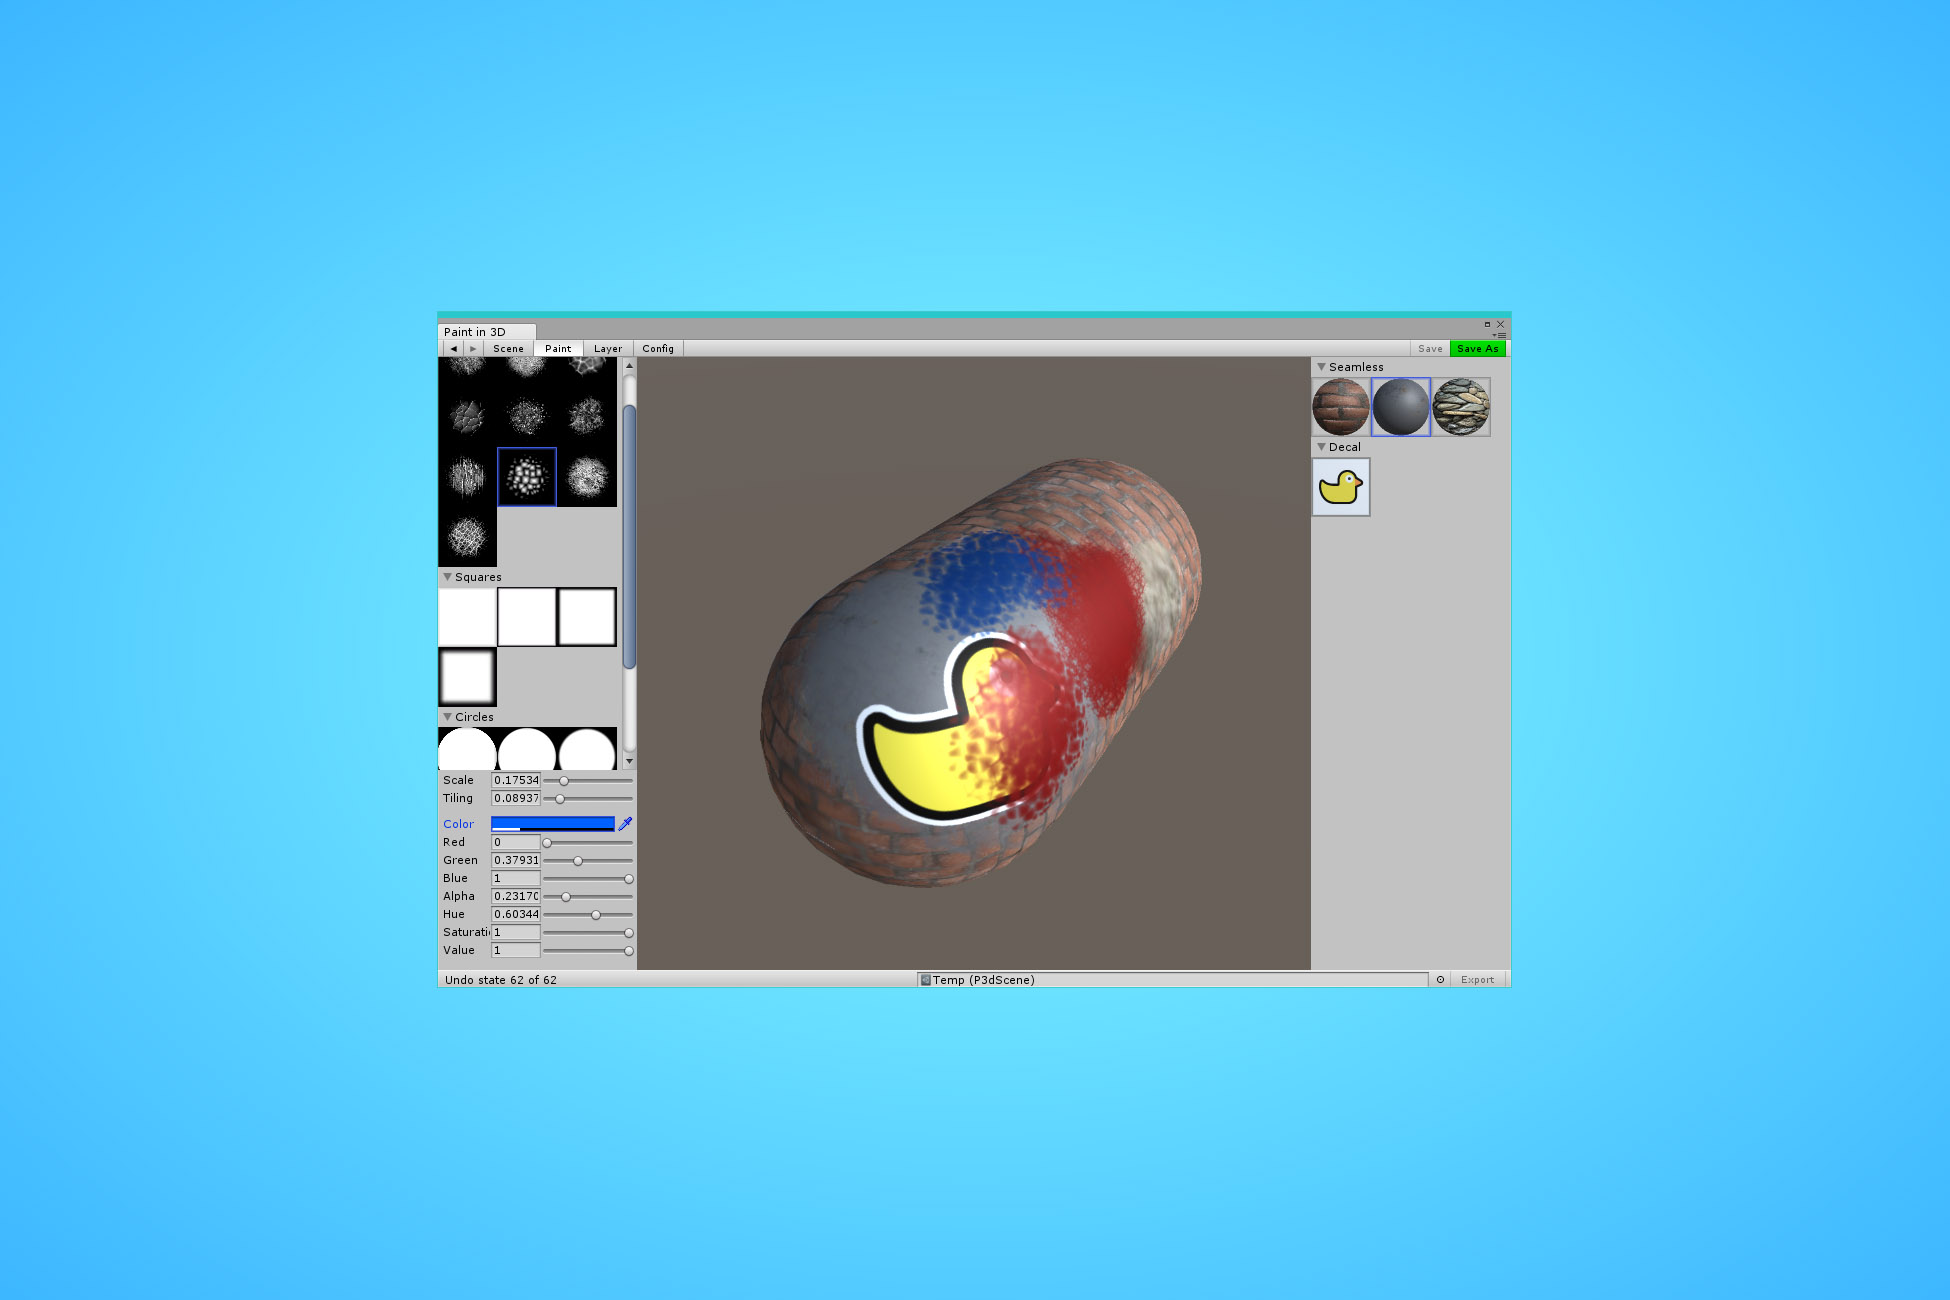
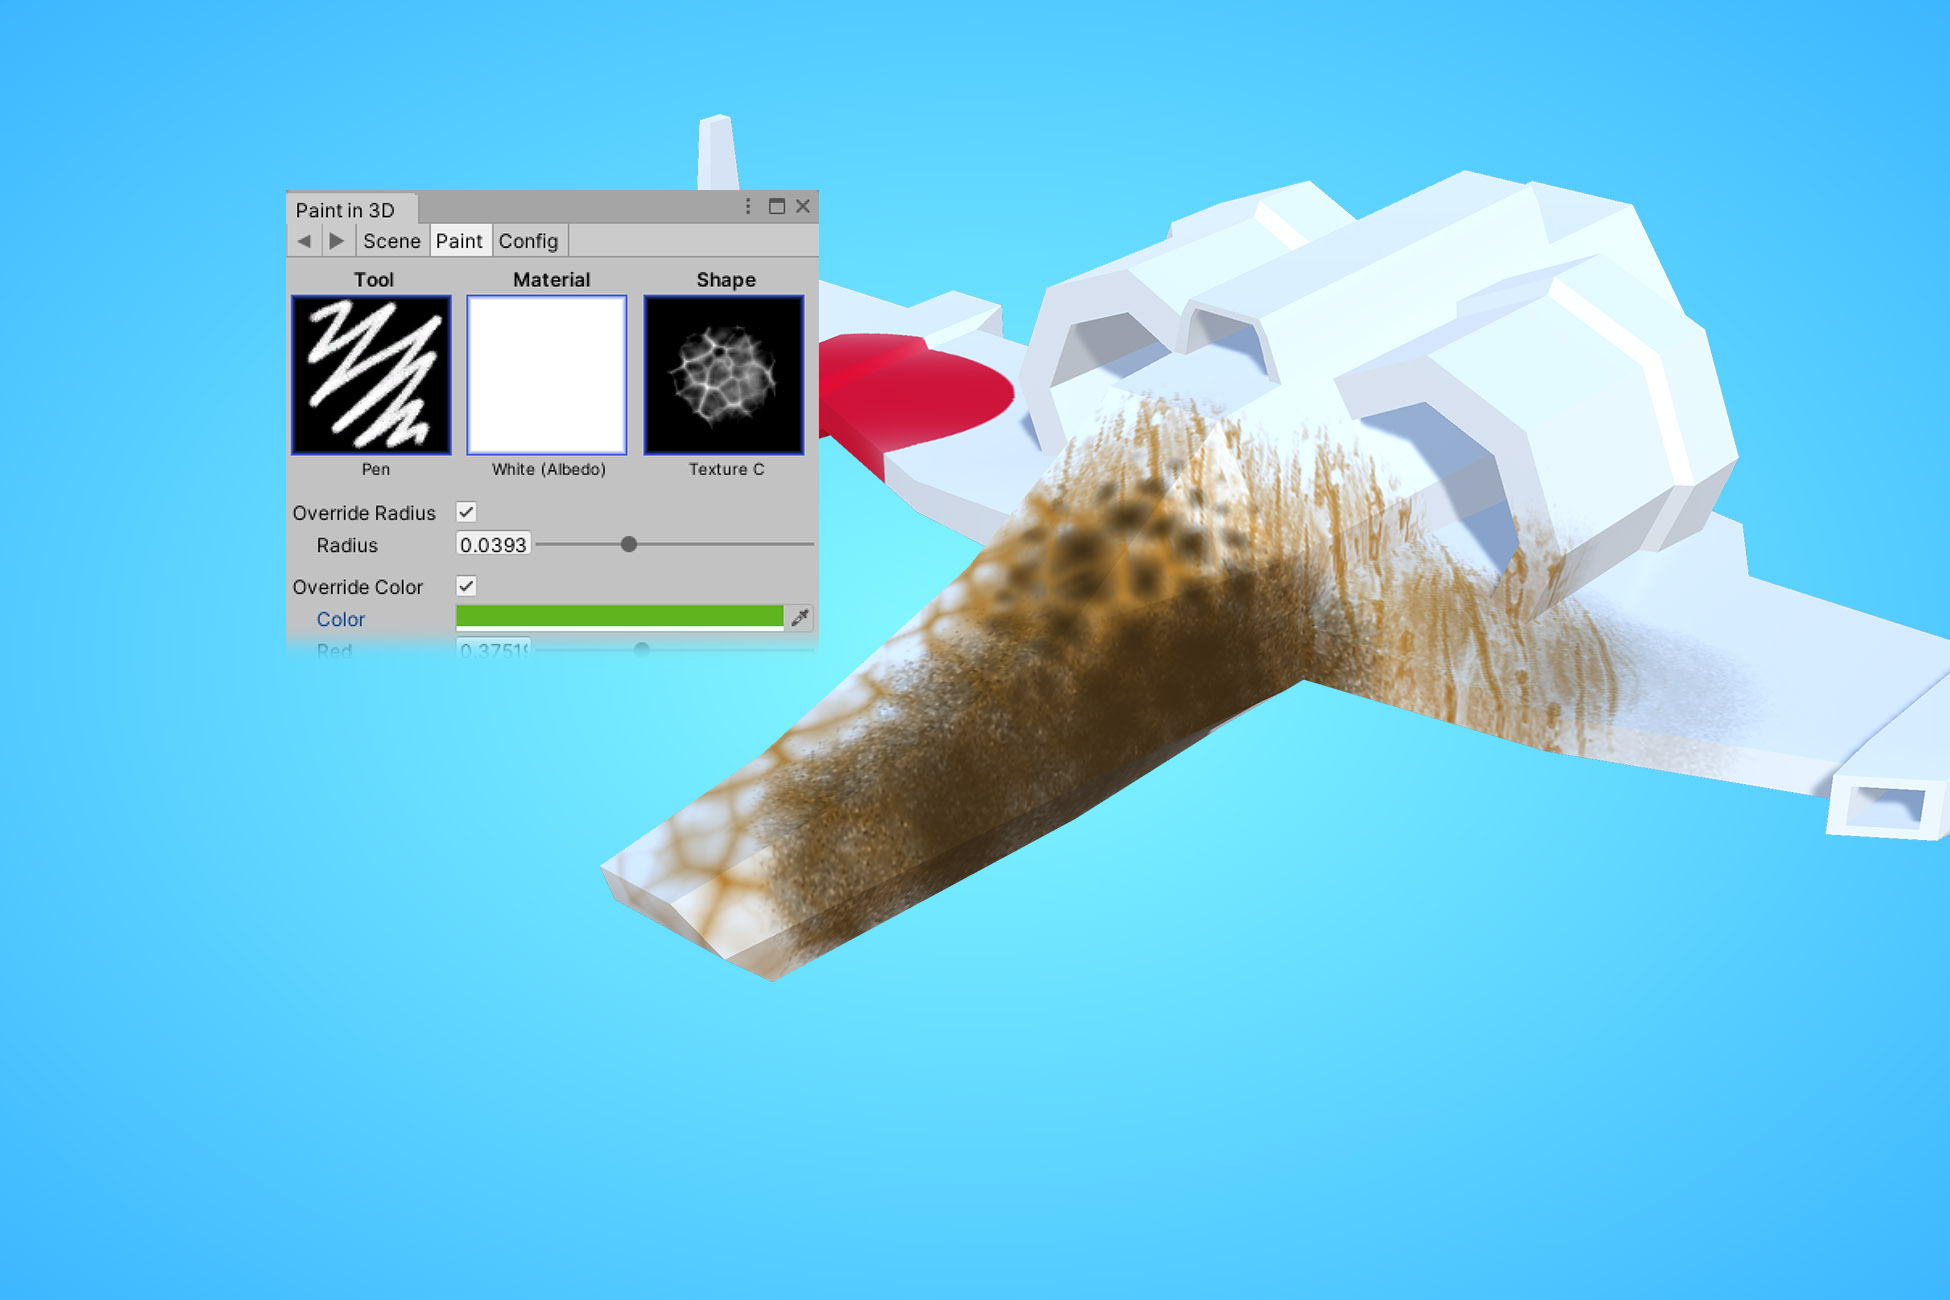
Site updates.
Added FLOW to site.
Updated Paint in 3D in-editor screenshot.

diff --git a/index.html b/index.html
@@ -211,6 +211,39 @@
 					<a href="Get/PaintIn3D" target="_blank"><i class="fa fa-external-link"></i>Get Paint in 3D</a>
 				</div>
 			</div>
+<!-- FLOW -->
+			<div class="main expandable" style="background-color: #275AC3; background-image: url('Content/FLOW/Thumb.png'); color: #FFF;" id="FLOW">
+				<a href="#FLOW">
+					<h1 style="text-shadow: 0px 0px 5px #EEEEFF;">FLOW</h1>
+					<i class="fa fa-angle-down"></i>
+				</a>
+				<div class="center">
+					<a href="Get/FLOW" target="_blank"><i class="fa fa-external-link"></i>Get FLOW</a>
+				</div>
+				<div class="info">
+					<p><strong>FLOW</strong> allows you to add large scale interactive fluids to your scene - all highly optimized using GPU acceleration.</p>
+					<div class="feature">
+						<lightbox tabindex="0"><img src="Content/FLOW/Performance_t.jpg" alt="Performance" /><div tabindex="0"><span style="background-image: url('Content/FLOW/Performance.jpg')" /></div></lightbox>
+						<h2>Incredible Performance</h2> <p>All features of FLOW have been heavily optimized with GPU acceleration, batching, caching, and much more. This allows you to enjoy consistent performance regardless of how much fluid you add to your scene. You can also quickly adjust the simulation resolution for lower end mobile devices.</p>
+					</div>
+					<div class="feature">
+						<lightbox tabindex="0"><img src="Content/FLOW/Dynamic_t.jpg" alt="Dynamic" /><div tabindex="0"><span style="background-image: url('Content/FLOW/Dynamic.jpg')" /></div></lightbox>
+						<h2>Dynamic</h2> <p>Simply add the FlowObject component to your GameObject, and the fluid simulation will automatically react to any changes you make to it. This allows you to create or destroy dams, redirect water flow, and much more!</p>
+					</div>
+					<div class="feature">
+						<lightbox tabindex="0"><img src="Content/FLOW/Underwater_t.jpg" alt="Underwater" /><div tabindex="0"><span style="background-image: url('Content/FLOW/Underwater.jpg')" /></div></lightbox>
+						<h2>Underwater Rendering</h2> <p>With just a few clicks you can render fluids when the camera goes underwater, with full control over the underwater fog distance. The transition from above to under water is seamless too!</p>
+					</div>
+					<div class="feature">
+						<lightbox tabindex="0"><img src="Content/FLOW/Unlimited_t.jpg" alt="Unlimited" /><div tabindex="0"><span style="background-image: url('Content/FLOW/Unlimited.jpg')" /></div></lightbox>
+						<h2>Unlimited Fluid Types</h2> <p>Need more fluid types than the included water/mud/oil/etc? No problem, just add the FlowFluid component to your scene or a prefab and you can make your own, with full control over the color, viscosity, opacity, etc.</p>
+					</div>
+					<div class="center">
+					<a href="Get/FLOW" target="_blank"><i class="fa fa-external-link"></i>Get FLOW</a>
+				</div>
+				</div>
+			</div>
+<!-- FLOW -->
 			<div class="main expandable" style="background-image: url('Content/Destructible2D/Thumb.png'); background-color: #010020; color: #EEF;" id="Destructible2D">
 				<a href="#Destructible2D">
 					<h1 style="text-shadow: 0px 0px 5px #010020;">Destructible 2D</h1>
